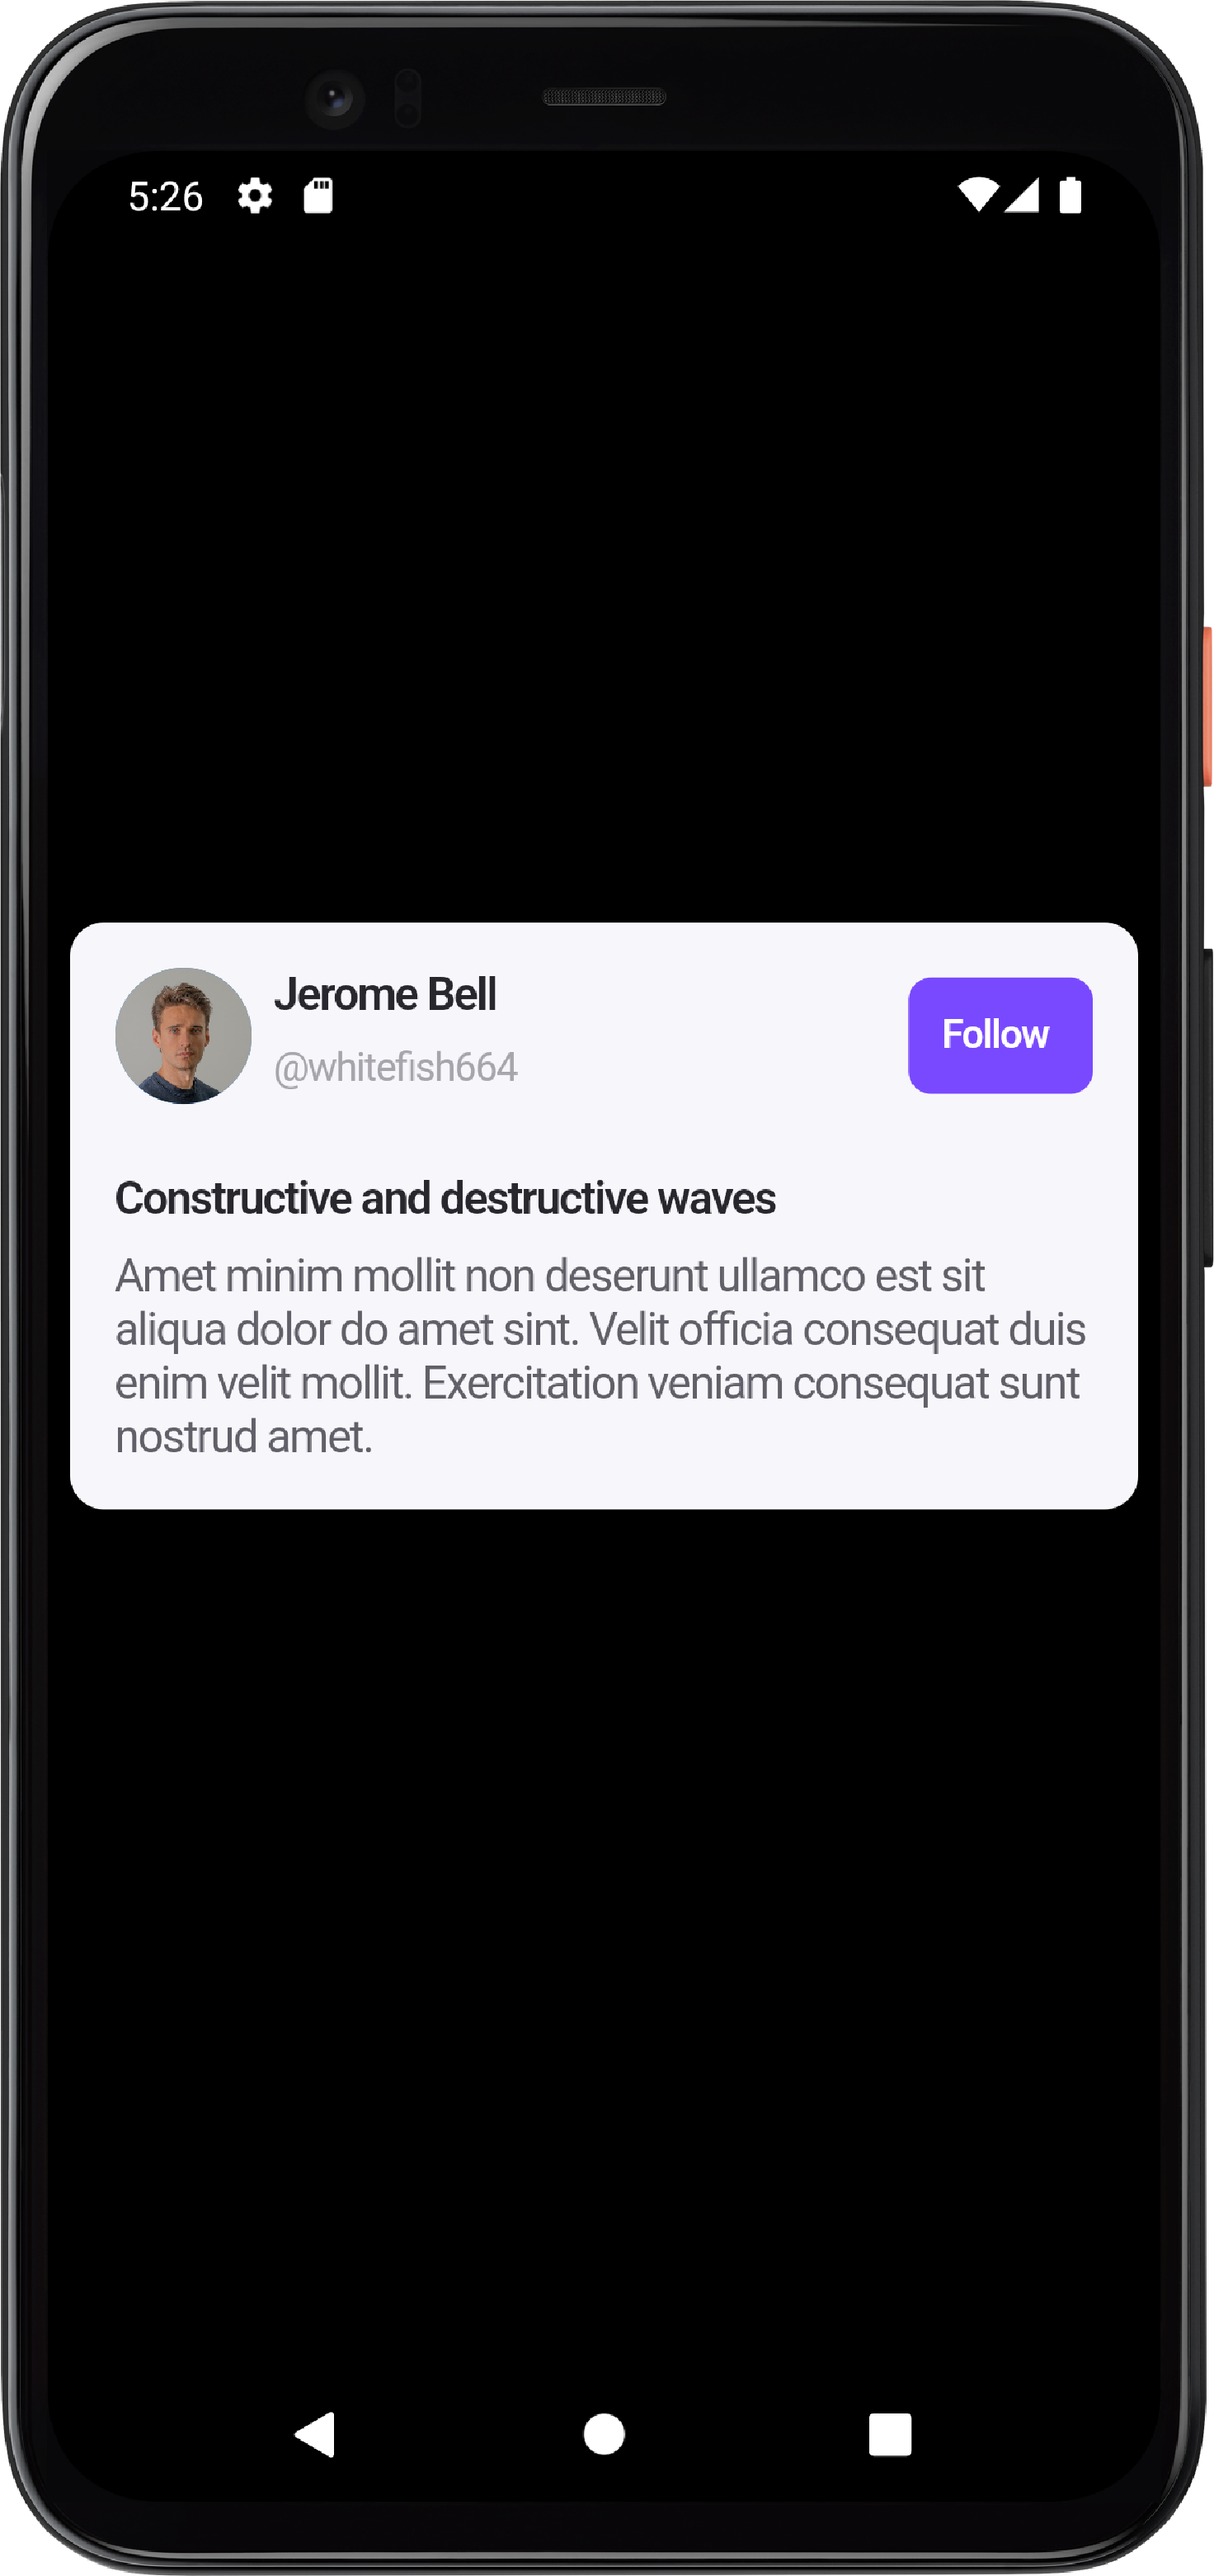
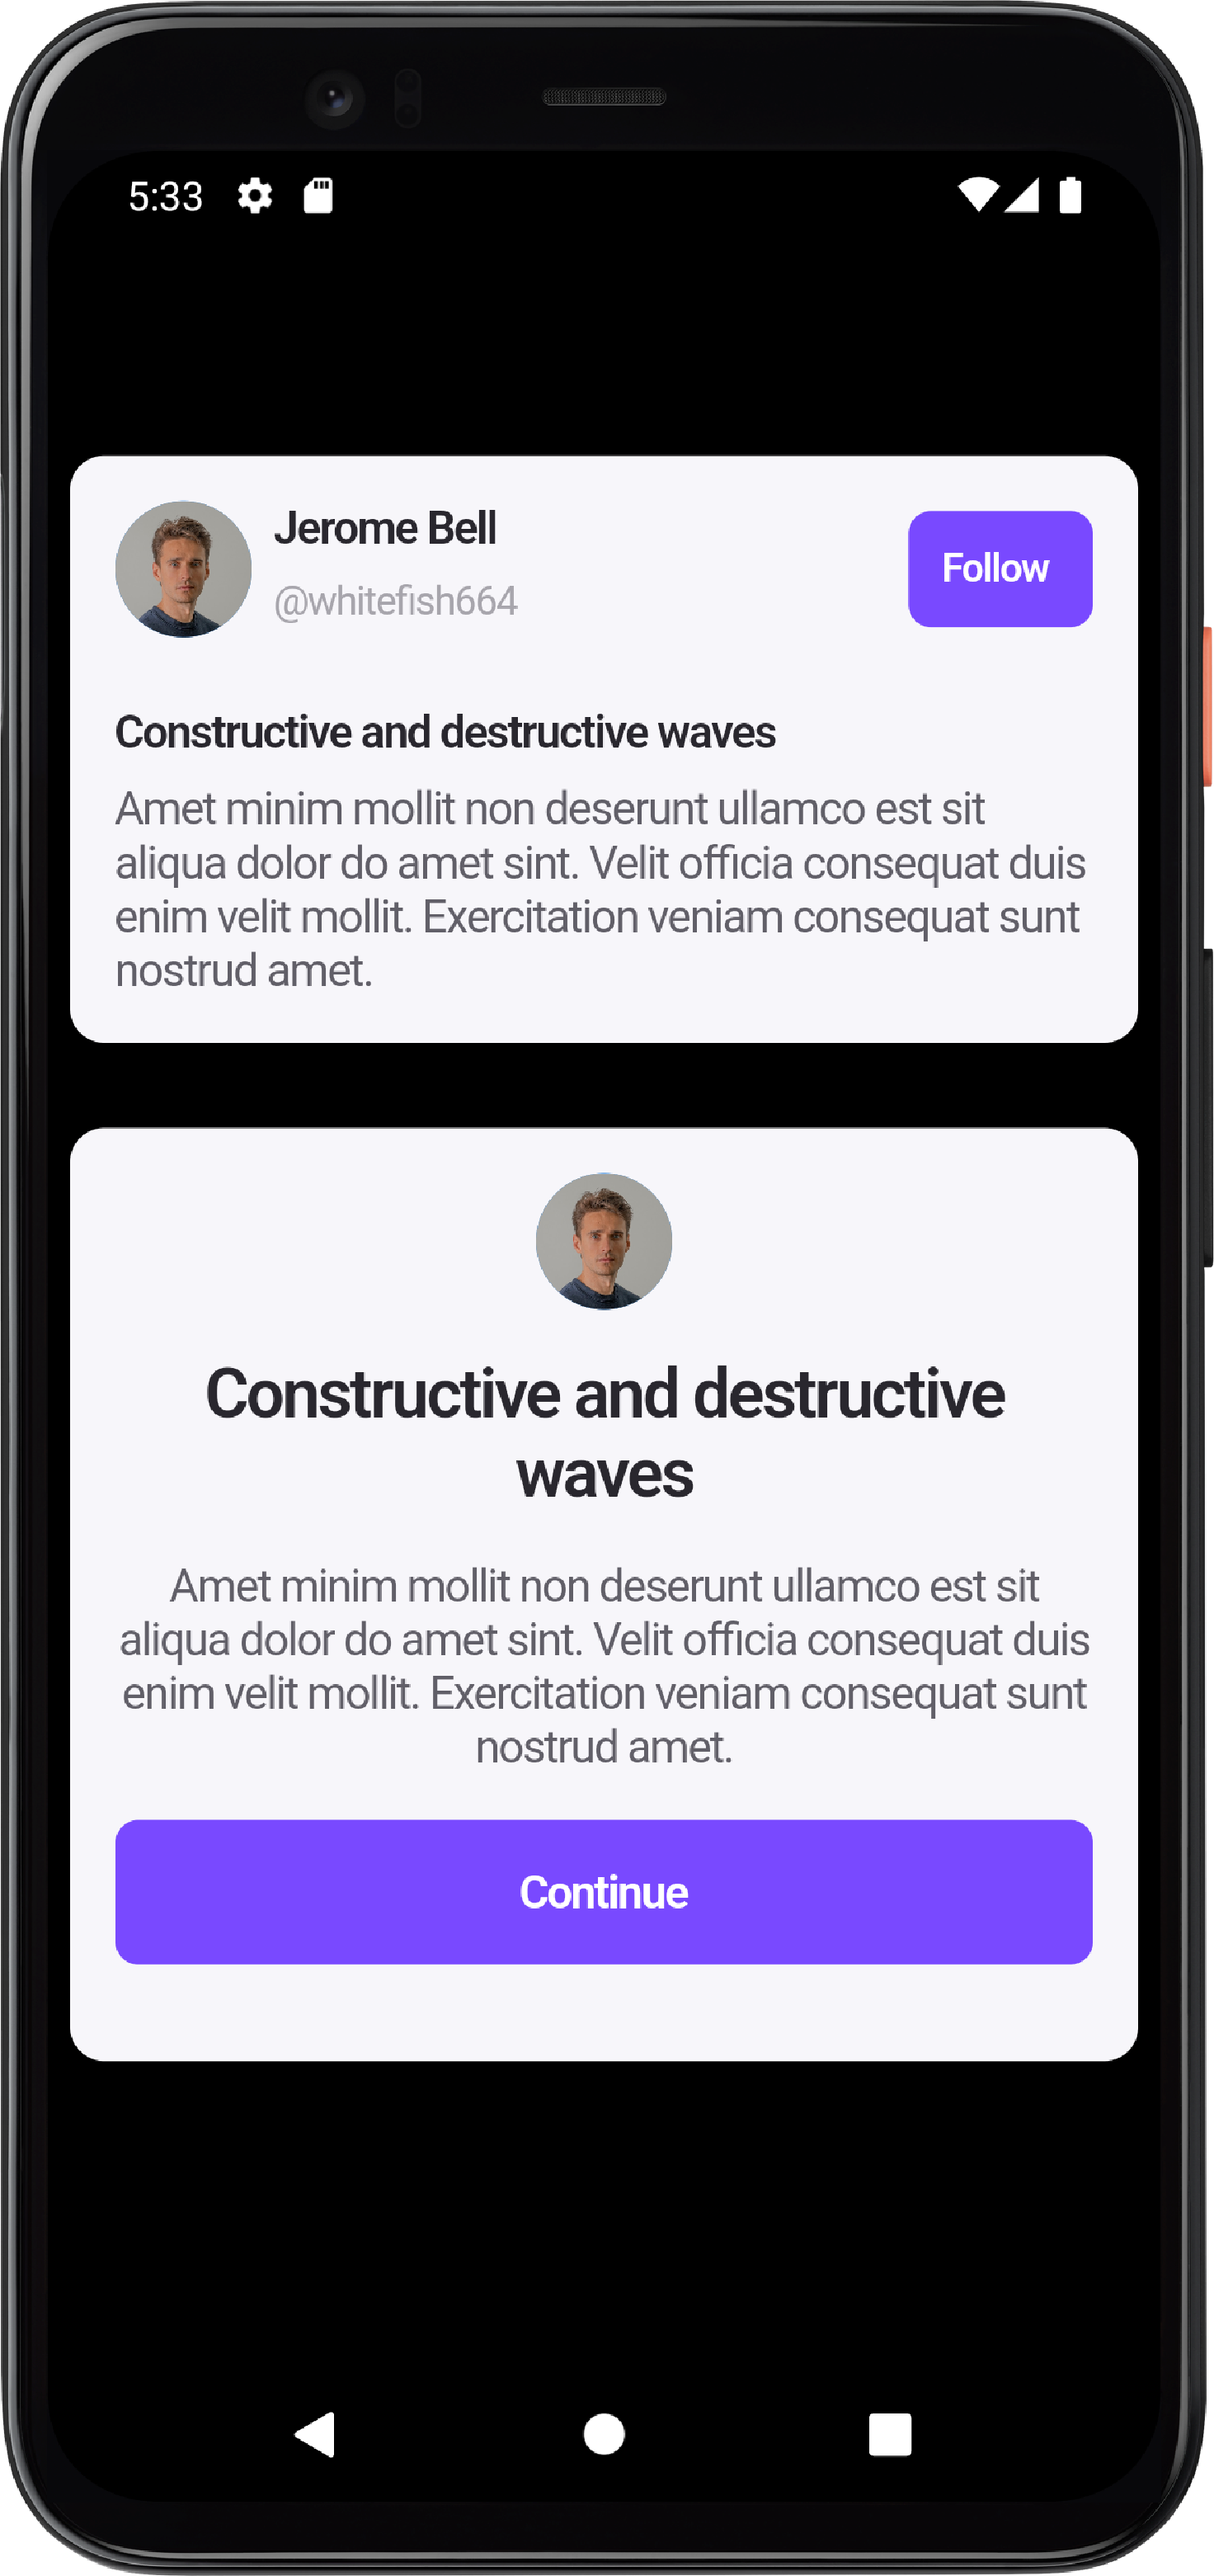
add Card 17

diff --git a/lib/Cards/card_17.dart b/lib/Cards/card_17.dart
@@ -1,0 +1,80 @@
+import 'package:flutter/material.dart';
+import 'package:gap/gap.dart';
+class Card17 extends StatelessWidget {
+  const Card17({Key? key}) : super(key: key);
+
+  @override
+  Widget build(BuildContext context) {
+    return Container(
+      height: 329,
+      width: double.infinity,
+      padding: const EdgeInsets.all(16),
+      decoration: ShapeDecoration(
+        color:  const Color(0xFFF7F6FA),
+        shape: RoundedRectangleBorder(
+          borderRadius: BorderRadius.circular(12),
+        ),
+      ),
+      child: Column(
+        children: [
+          const SizedBox(
+            height: 48,
+            width: 48,
+            child: CircleAvatar(
+              backgroundImage: NetworkImage("https://s3-alpha-sig.figma.com/img/0e5d/8279/8e2becda16e2f3abc85e162b63a8d214?Expires=1704067200&Signature=m-pJeD~ylRMmgirPNxn9wu78ryYRNN8xngruQYngKINrixxDESYinftuHmb~9F~CQx2-GdfV0fRs~X1gW2IB-8IEFU-hF5Nv4Vw8c5MVQzGuGDP31efhIiT8l2QzxZxlLRjIuiX3d3HugZ-ov6JJOKYiDLhrABDu5PCiB4dxip93zNbONILiQ2RQwz-pibJOhAZvQ1oQ2FPLj26KbmdVBFvon~t8h79qZstV8eKeox0~v4h71uFRIFMDQKJ8WlqJq~s~exK9JZq7QXazdc9V9UXjd92~JacRpjPS4kG896j8dtbbDlvJCFghb9Fb81W~L8WclNPcC1bRWNRT1RwMjA__&Key-Pair-Id=APKAQ4GOSFWCVNEHN3O4"),
+
+            ),
+          ),
+          const Gap(16),
+          const Text(
+            'Constructive and destructive waves',
+            textAlign: TextAlign.center,
+            style: TextStyle(
+              color: Color(0xFF29272E),
+              fontSize: 24,
+              fontFamily: 'Inter',
+              fontWeight: FontWeight.w600,
+              height: 0,
+              letterSpacing: -0.96,
+            ),
+          ),
+          const Gap(16),
+          const Text(
+            'Amet minim mollit non deserunt ullamco est sit aliqua dolor do amet sint. Velit officia consequat duis enim velit mollit. Exercitation veniam consequat sunt nostrud amet.',
+            textAlign: TextAlign.center,
+            style: TextStyle(
+              color: Color(0xFF615F68),
+              fontSize: 16,
+              fontFamily: 'Inter',
+              fontWeight: FontWeight.w400,
+              height: 0,
+              letterSpacing: -0.64,
+            ),
+          ),
+          const Gap(16),
+          Container(
+            width: double.infinity,
+            height: 51,
+            padding: const EdgeInsets.all(16),
+            decoration: ShapeDecoration(
+              color: const Color(0xFF7949FF),
+              shape: RoundedRectangleBorder(borderRadius: BorderRadius.circular(8)),
+            ),
+            child:const Text(
+              'Continue',
+              textAlign: TextAlign.center,
+              style: TextStyle(
+                color: Colors.white,
+                fontSize: 16,
+                fontFamily: 'Inter',
+                fontWeight: FontWeight.w600,
+                height: 0,
+                letterSpacing: -0.64,
+              ),
+            ),
+          )
+        ],
+      ),
+    );
+  }
+}

diff --git a/lib/Screens/view_6.dart b/lib/Screens/view_6.dart
@@ -1,5 +1,6 @@
 import 'package:flutter/material.dart';
 import 'package:flutter_ui_card_collections/Cards/card_16.dart';
+import 'package:flutter_ui_card_collections/Cards/card_17.dart';
 import 'package:gap/gap.dart';
 class View6 extends StatelessWidget {
   const View6({Key? key}) : super(key: key);
@@ -15,7 +16,7 @@ class View6 extends StatelessWidget {
           children: [
             Card16(),
             Gap(30),
-
+            Card17()
 
           ],
         ),
